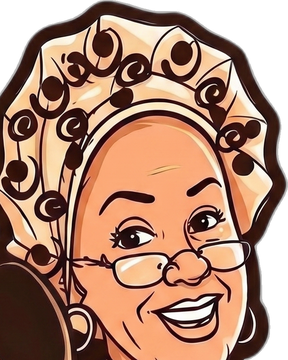
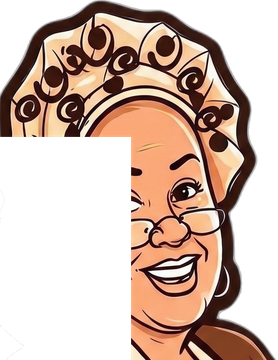
Header com a personagem inteira e CSS da lousa restaurado

diff --git a/public/css/style.css b/public/css/style.css
@@ -268,3 +268,15 @@ footer .mini { opacity: 0.75; margin: 0; }
 }
 .marca img { height: 44px; width: auto; }
 footer img { height: 88px; width: auto; }
+
+/* ---------- lousa (a do desenho do neto) ---------- */
+.lousa {
+  background: var(--lousa); color: var(--giz);
+  font-family: var(--giz-fonte); font-size: 1.3rem; line-height: 1.55;
+  border: 7px solid var(--marrom-2); border-radius: 8px;
+  box-shadow: 0 6px 16px rgba(69, 41, 26, 0.25), inset 0 0 30px rgba(0, 0, 0, 0.35);
+  padding: 0.9rem 1.4rem; max-width: 22rem;
+  transform: rotate(-2deg); margin: 0.4rem 0;
+}
+.lousa ul { list-style: none; padding: 0; margin: 0; }
+.lousa li::before { content: "✓ "; color: var(--giz); }

diff --git a/public/index.html b/public/index.html
@@ -20,7 +20,7 @@
 
 <header class="topo">
   <a class="marca" href="#inicio">
-    <img src="assets/vovo-cabeca.png" alt="" height="44" />
+    <img src="assets/vovo-personagem.png" alt="" height="48" />
     <span>vovó linlin</span>
   </a>
   <a class="link-zap" href="https://wa.me/5511952855997" target="_blank" rel="noreferrer" aria-label="WhatsApp da vovó">
